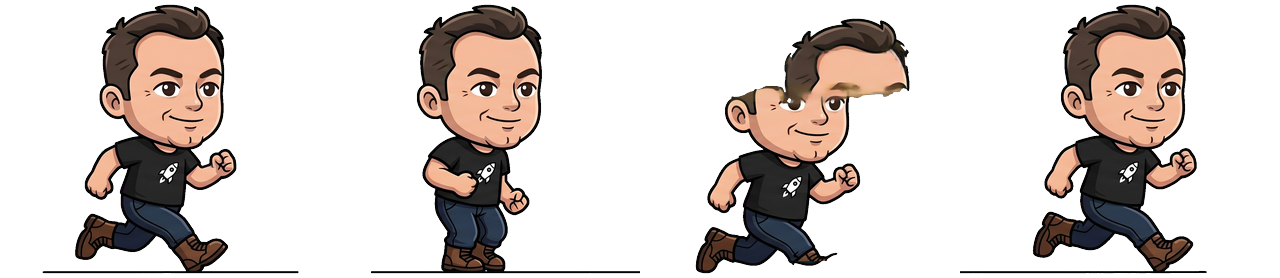
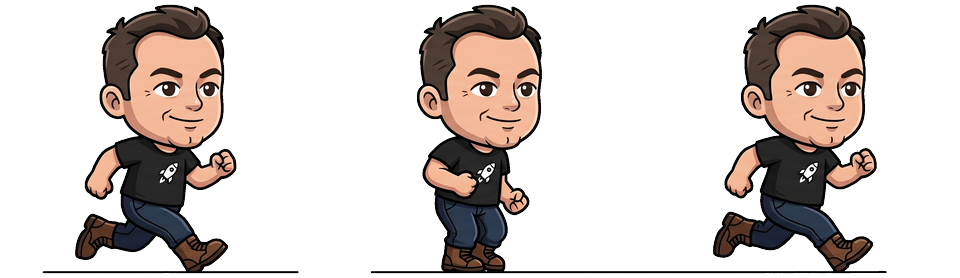
Fix Elon's split head (bad strip frame) + fan out the start-line pile
- elon_run.png had a torn-head glitch in frame 3 (audited all 12 strips;
  only elon was bad, wojak already fixed). Rebuilt from its 3 clean frames,
  SHEET.elon frames 4->3, bumped SHEET_V 4->5 to bust cached strips.
- Start line / clusters: racers spawn at the same X so big chibi heads piled
  and read as "split". Added a render-only horizontal fan (30px/level) on top
  of the vertical lift, so a pile spreads into a readable diagonal pack
  (sprite + shadow + name label move together). Physics/positions untouched,
  so race fairness is unchanged.

Verified in-browser: Elon runs with an intact head; the 4-racer start is a
staggered pack with distinct faces + labels, no console errors.

diff --git a/index.html b/index.html
@@ -391,7 +391,7 @@ CHARS.forEach(c => { const im = new Image(); im.src = 'assets/' + c.id + '.png';
 // feet-anchored cells. The run cycle auto-links to running speed (faster = faster):
 //   SHEET.hippo = { src:'assets/hippo_run.png', frames:8 };
 // Air & stun keep using the static PFP, so you can enable characters one at a time.
-const SHEET_V = '4';   // bump to bust any stale browser cache of the run-cycle strips
+const SHEET_V = '5';   // bump to bust any stale browser cache of the run-cycle strips
 const SHEET = {
   hippo: { src:'assets/hippo_run.png?v='+SHEET_V, frames:4 },
   blub:  { src:'assets/blub_run.png?v='+SHEET_V,  frames:4 },
@@ -403,7 +403,7 @@ const SHEET = {
   adeniyi:{ src:'assets/adeniyi_run.png?v='+SHEET_V, frames:4 },
   alon:  { src:'assets/alon_run.png?v='+SHEET_V,  frames:4 },
   vitalik:{ src:'assets/vitalik_run.png?v='+SHEET_V, frames:4 },
-  elon:  { src:'assets/elon_run.png?v='+SHEET_V,  frames:4 },
+  elon:  { src:'assets/elon_run.png?v='+SHEET_V,  frames:3 },   // dropped 1 botched AI frame (torn head)
   wojak: { src:'assets/wojak_run.png?v='+SHEET_V, frames:3 },   // dropped 1 botched AI frame
 };
 const STRIP = {};
@@ -1036,7 +1036,7 @@ function render(){
     // when racers bunch up, lift the ones behind a touch so big chibi heads stagger
     // instead of piling into a "split head" look (render-only — shadows stay grounded)
     let _px=-1e9, _stk=0;
-    for (const r of order){ _stk = (r.x-_px < 56 && !r.finished) ? Math.min(_stk+1,4) : 0; r._clusterLift = _stk*15; _px=r.x; }
+    for (const r of order){ _stk = (r.x-_px < 56 && !r.finished) ? Math.min(_stk+1,4) : 0; r._clusterLift = _stk*15; r._clusterFanX = _stk*30; _px=r.x; }
     for (const r of order) drawCritter(r);
     drawFx();
     drawSpeedLines();
@@ -1727,7 +1727,7 @@ function drawSprite(r, x, y, spr, air, stun, bob){
 }
 
 function drawCritter(r){
-  const x = r.x - camX, y = r.y - (r._clusterLift||0);   // cluster stagger (render-only; shadow stays on ground)
+  const x = r.x - camX - (r._clusterFanX||0), y = r.y - (r._clusterLift||0);   // cluster fan (render-only): spread piled racers up-and-back so big chibi heads/labels don't overlap
   if (x>VW+80 || x<-80) return;
   const air = !r.onGround;
   const stun = r.stunT>0;